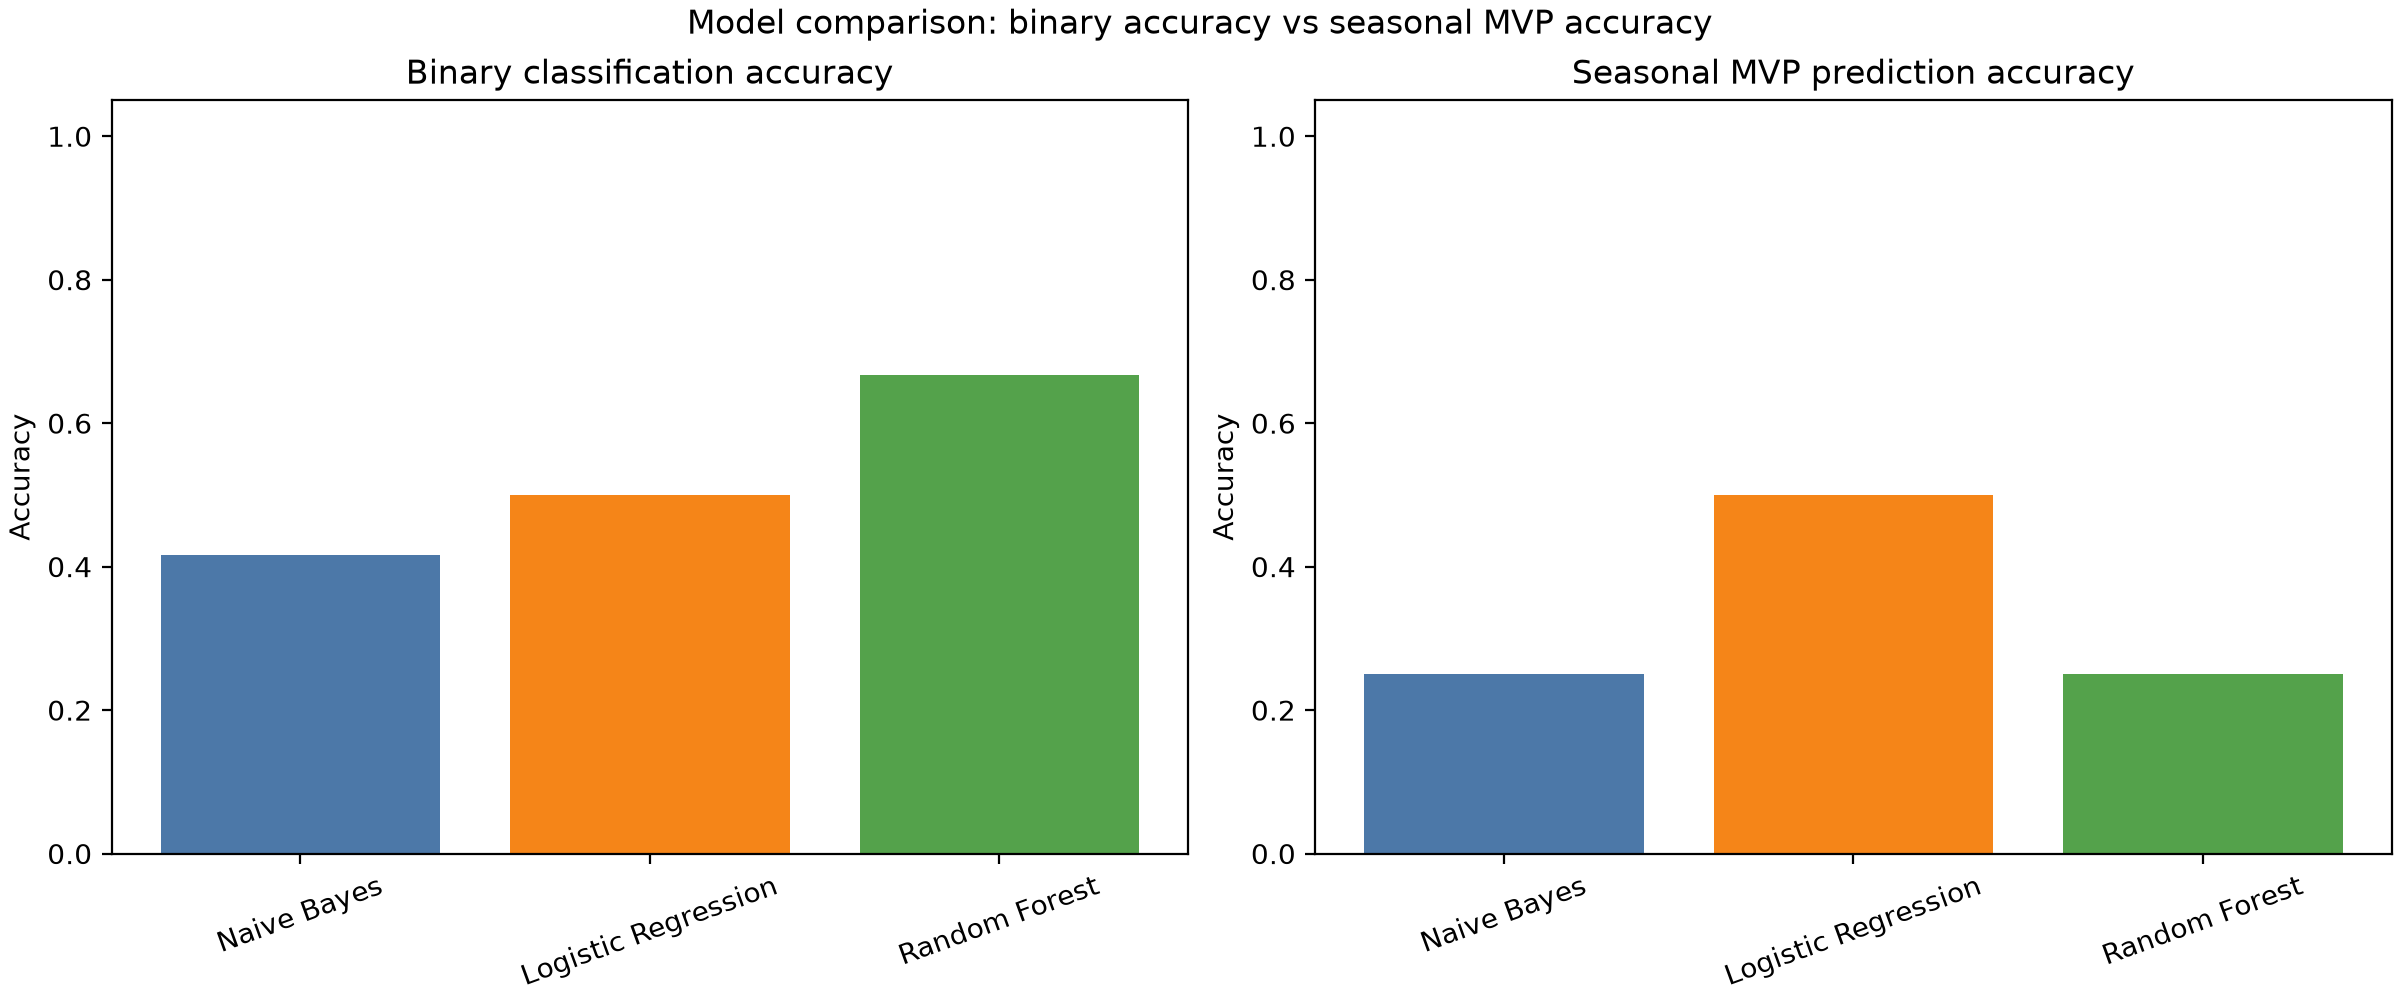
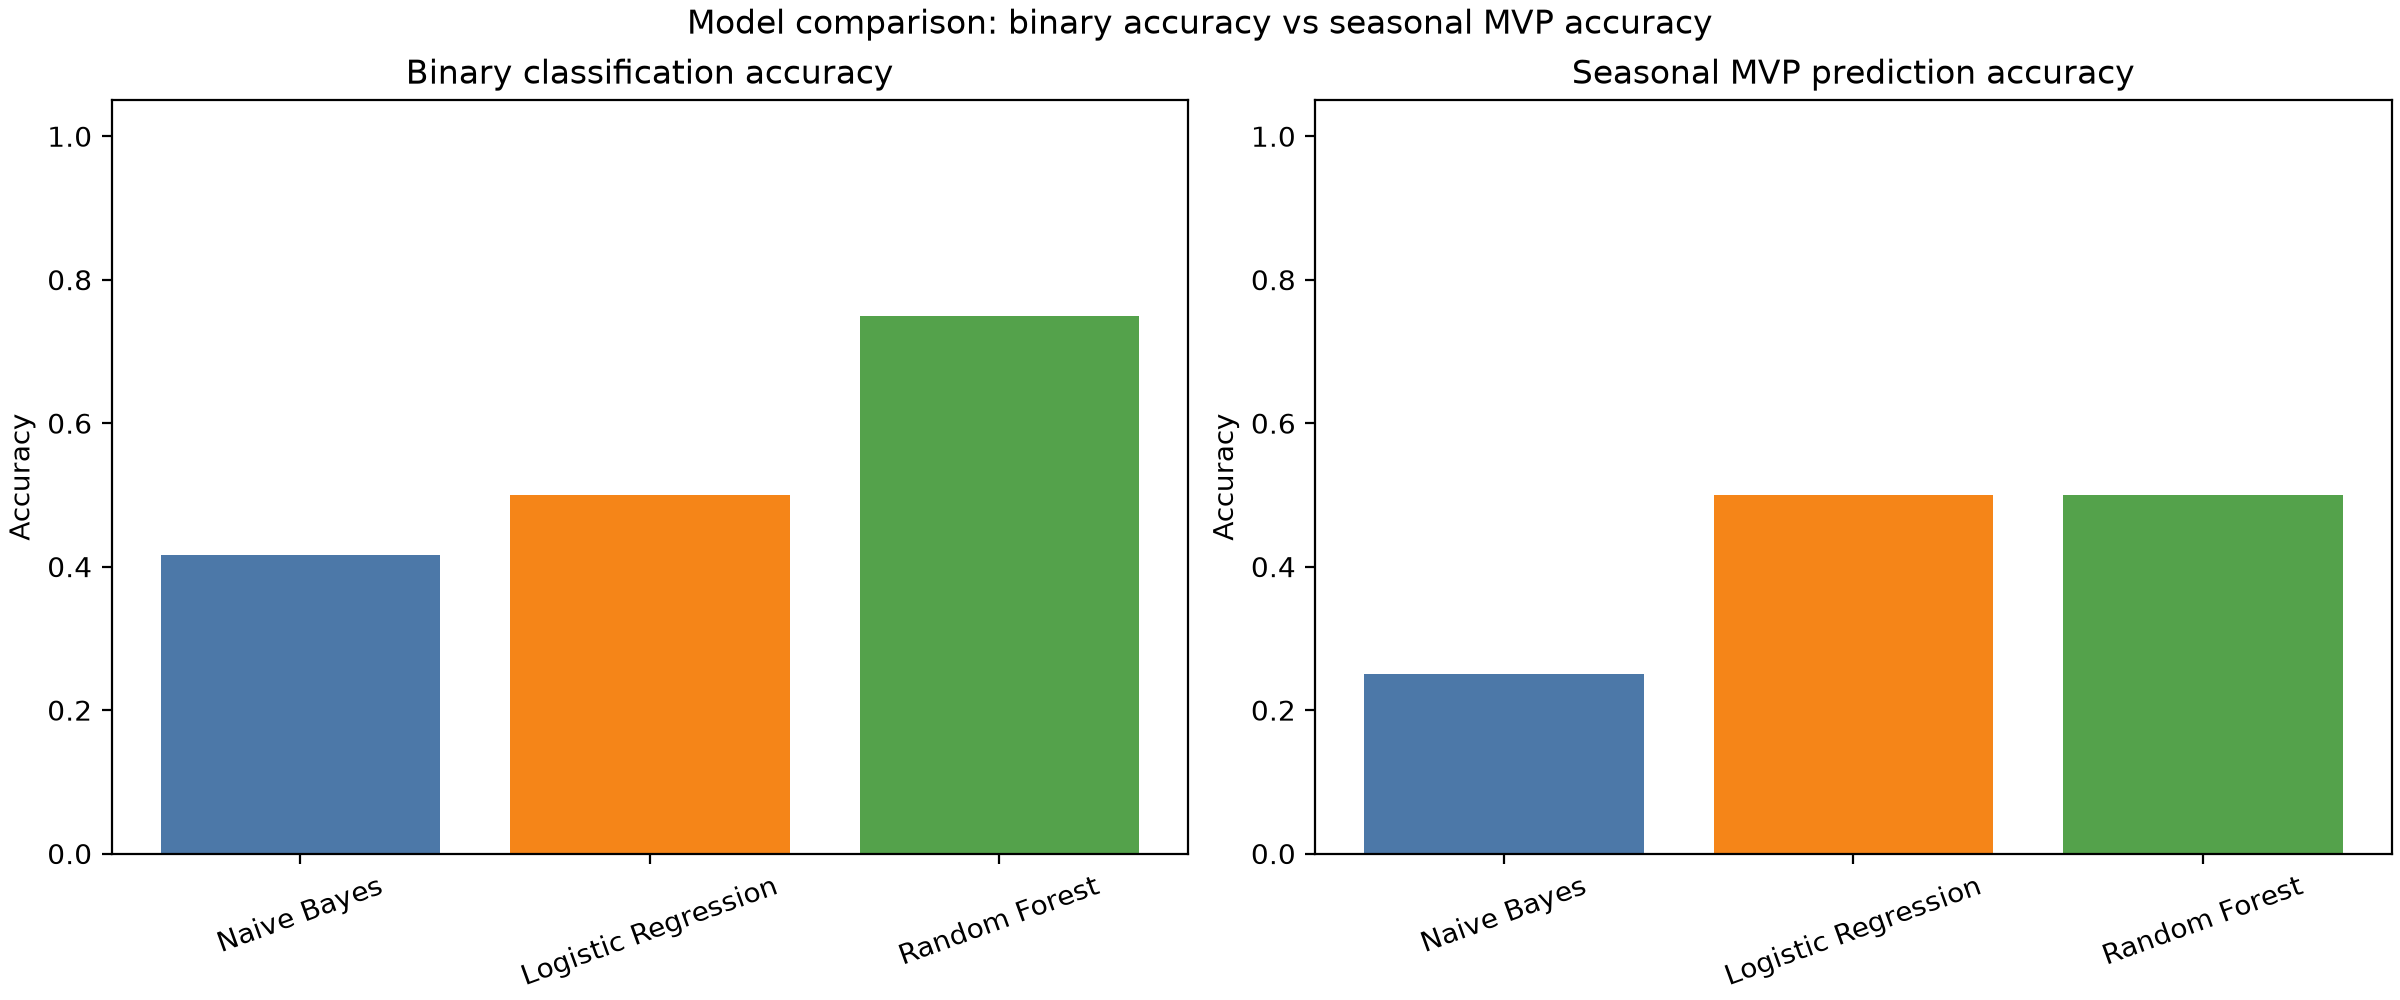
Update model evaluation and project dependencies

Changed region(s): [[0.8438, 0.496, 1.0, 0.682], [0.3438, 0.31, 0.5, 0.372]]

diff --git a/src/final_verification.py b/src/final_verification.py
@@ -289,7 +289,7 @@ def main() -> None:
         f'  Predicted binary class distribution: class 0 = {int(rf_distribution.loc[0])}, class 1 = {int(rf_distribution.loc[1])} of {len(rf_predictions)} records.',
         f'  Confusion matrix (rows = actual [0, 1], columns = predicted [0, 1]): [[{rf_metrics["tn"]}, {rf_metrics["fp"]}], [{rf_metrics["fn"]}, {rf_metrics["tp"]}]].',
         f'  Actual validation class counts: class 0 = {rf_metrics["tn"] + rf_metrics["fp"]}, class 1 = {rf_metrics["fn"] + rf_metrics["tp"]}.',
-        '  The classifier predicts no positive labels at the default decision threshold. This gives zero precision, recall, and F1; accuracy is 8/12 (66.67%) because all eight negative examples are correct. Seasonal selection is separate and still selects the highest-probability finalist within each season.',
+        f'  At the default decision threshold, binary metrics are accuracy={format_pct(rf_metrics["accuracy"])}, precision={format_pct(rf_metrics["precision"])}, recall={format_pct(rf_metrics["recall"])}, and F1={format_pct(rf_metrics["f1_score"])}. The confusion matrix above gives the corresponding counts; seasonal selection separately chooses the highest-probability finalist within each season.',
         '  The validation set was not used to tune the Random Forest.',
         '',
         '2020-21 reproduction status',

diff --git a/models/logistic_regression_model.py b/models/logistic_regression_model.py
@@ -2,6 +2,7 @@ from __future__ import annotations
 
 from pathlib import Path
 
+import numpy as np
 import pandas as pd
 from sklearn.linear_model import LogisticRegression
 from sklearn.metrics import accuracy_score, confusion_matrix, f1_score, precision_score, recall_score
@@ -92,8 +93,6 @@ def create_prediction_outputs(
 
 
 def create_seasonal_predictions(validation_df: pd.DataFrame, probabilities: np.ndarray, file_name: str) -> pd.DataFrame:
-    import numpy as np
-
     rows = []
     for season, season_df in validation_df.groupby('Season', sort=True):
         season_df = season_df.sort_values('Player').copy()

diff --git a/src/compare_models.py b/src/compare_models.py
@@ -1,6 +1,10 @@
 from __future__ import annotations
 
+import os
 from pathlib import Path
+
+PROJECT_ROOT = Path(__file__).resolve().parents[1]
+os.environ.setdefault('MPLCONFIGDIR', str(PROJECT_ROOT / '.matplotlib'))
 
 import matplotlib
 matplotlib.use('Agg')
@@ -8,7 +12,6 @@ import matplotlib.pyplot as plt
 import pandas as pd
 
 
-PROJECT_ROOT = Path(__file__).resolve().parents[1]
 RESULTS_DIR = PROJECT_ROOT / 'results'
 FEATURES = ['G', 'MP', 'FG%', '3P%', 'FT%', 'TRB', 'AST', 'STL', 'BLK', 'PTS']
 TARGET_COLUMN = 'MVP'

diff --git a/models/random_forest_model.py b/models/random_forest_model.py
@@ -128,11 +128,12 @@ def main() -> None:
     X_val = validation_df[FEATURES]
     y_val = validation_df[TARGET_COLUMN].astype(int)
 
-    # Reasonable default hyperparameters; no validation tuning is performed.
+    # Class weighting was selected using season-grouped cross-validation on training data only.
     model = RandomForestClassifier(
         n_estimators=100,
         random_state=42,
         n_jobs=-1,
+        class_weight='balanced',
     )
     model.fit(X_train, y_train)
 
